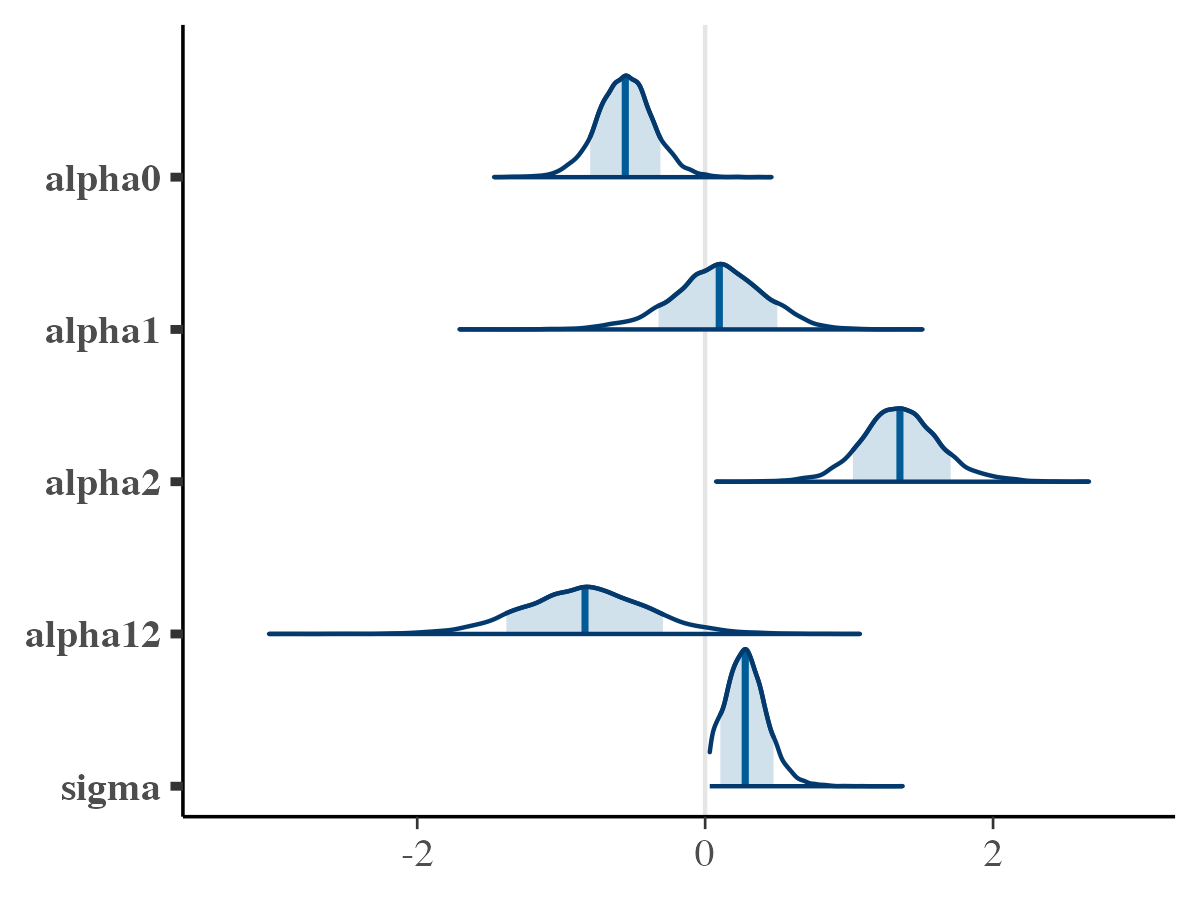
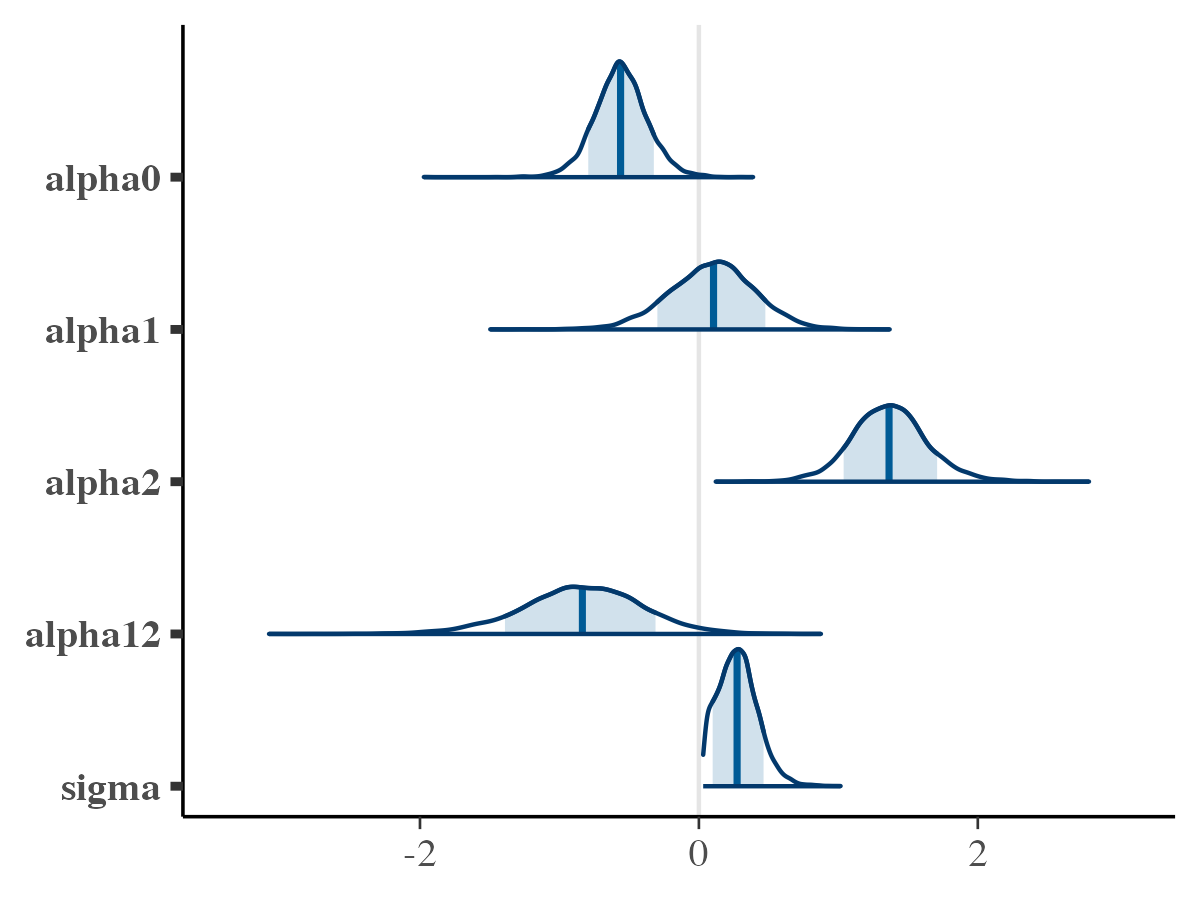
deploy: c6d447290df2568a062c6f5ffa799ca7ffac9ecc

diff --git a/articles/rjuliabugs.html b/articles/rjuliabugs.html
@@ -249,17 +249,17 @@ through <code>summary</code> function</p>
 <span><span class="co">#&gt; </span></span>
 <span><span class="co">#&gt; Summary Statistics:</span></span>
 <span><span class="co">#&gt; </span></span>
-<span><span class="co">#&gt;  parameters      mean      std     mcse ess_bulk ess_tail  rhat ess_per_sec</span></span>
-<span><span class="co">#&gt;         tau 47.229027 119.7687 9.449100    370.8    210.7 1.019          NA</span></span>
-<span><span class="co">#&gt;     alpha12 -0.837213   0.4349 0.007273   3557.3   4261.6 1.000          NA</span></span>
-<span><span class="co">#&gt;      alpha2  1.359454   0.2768 0.004914   3153.7   3699.5 1.001          NA</span></span>
-<span><span class="co">#&gt;      alpha1  0.088658   0.3247 0.005693   3318.4   3740.4 1.002          NA</span></span>
-<span><span class="co">#&gt;      alpha0 -0.555848   0.1978 0.003373   3418.4   3739.6 1.001          NA</span></span>
-<span><span class="co">#&gt;        b[1] -0.194257   0.2613 0.005795   2144.9   3247.8 1.002          NA</span></span>
-<span><span class="co">#&gt;        b[2]  0.009934   0.2214 0.002901   5905.9   4201.3 1.005          NA</span></span>
-<span><span class="co">#&gt;        b[3] -0.198701   0.2381 0.005425   1970.2   3578.5 1.002          NA</span></span>
-<span><span class="co">#&gt;        b[4]  0.277987   0.2653 0.006755   1512.1   3867.1 1.003          NA</span></span>
-<span><span class="co">#&gt;        b[5]  0.116276   0.2426 0.003741   4451.4   5115.0 1.002          NA</span></span>
+<span><span class="co">#&gt;  parameters     mean     std     mcse ess_bulk ess_tail  rhat ess_per_sec</span></span>
+<span><span class="co">#&gt;         tau 44.92242 96.1386 5.898412    345.1    376.3 1.013          NA</span></span>
+<span><span class="co">#&gt;     alpha12 -0.84155  0.4308 0.007708   3147.1   3831.4 1.002          NA</span></span>
+<span><span class="co">#&gt;      alpha2  1.36808  0.2726 0.005194   2841.1   3240.1 1.001          NA</span></span>
+<span><span class="co">#&gt;      alpha1  0.09385  0.3085 0.005533   3133.9   3844.9 1.002          NA</span></span>
+<span><span class="co">#&gt;      alpha0 -0.55950  0.1910 0.003391   3153.5   3776.0 1.000          NA</span></span>
+<span><span class="co">#&gt;        b[1] -0.18989  0.2541 0.005448   2296.8   3393.0 1.002          NA</span></span>
+<span><span class="co">#&gt;        b[2]  0.01052  0.2166 0.002866   5830.6   4152.6 1.003          NA</span></span>
+<span><span class="co">#&gt;        b[3] -0.19178  0.2287 0.005099   2166.1   3737.3 1.002          NA</span></span>
+<span><span class="co">#&gt;        b[4]  0.27197  0.2548 0.008060    997.7   3769.9 1.004          NA</span></span>
+<span><span class="co">#&gt;        b[5]  0.11927  0.2404 0.004408   3295.1   3186.6 1.002          NA</span></span>
 <span><span class="co">#&gt;          ...</span></span>
 <span><span class="co">#&gt;   17 rows omitted</span></span></code></pre></div>
 <p>If we wish to obtain the summary statistics for each saved parameter,
@@ -370,7 +370,7 @@ package:</p>
 <span></span>
 <span><span class="co"># Example: effective sample size</span></span>
 <span><span class="fu">posterior</span><span class="fu">::</span><span class="fu"><a href="https://mc-stan.org/posterior/reference/ess_basic.html" class="external-link">ess_basic</a></span><span class="op">(</span><span class="va">posterior</span><span class="op">$</span><span class="va">params</span><span class="op">[</span>,,<span class="st">"alpha0"</span><span class="op">]</span><span class="op">)</span></span>
-<span><span class="co">#&gt; [1] 3437.824</span></span></code></pre></div>
+<span><span class="co">#&gt; [1] 3172.288</span></span></code></pre></div>
 </div>
 <div class="section level2">
 <h2 id="saving-and-loading-the-rjuliabugs-model">Saving and loading the <code>rjuliabugs</code> model<a class="anchor" aria-label="anchor" href="#saving-and-loading-the-rjuliabugs-model"></a>

diff --git a/reference/juliaBUGS.html b/reference/juliaBUGS.html
@@ -53,6 +53,7 @@ for the HMC sampler uses Not-U-Turn Sampler (NUTS) with the target acceptance pr
 <span>  <span class="va">data</span>,</span>
 <span>  <span class="va">model_def</span>,</span>
 <span>  <span class="va">params_to_save</span>,</span>
+<span>  initializations <span class="op">=</span> <span class="cn">NULL</span>,</span>
 <span>  name <span class="op">=</span> <span class="st">"sampler_juliaBUGS"</span>,</span>
 <span>  n_iter <span class="op">=</span> <span class="fl">2000</span>,</span>
 <span>  n_warmup <span class="op">=</span> <span class="fu"><a href="https://rdrr.io/r/base/Round.html" class="external-link">floor</a></span><span class="op">(</span><span class="va">n_iter</span><span class="op">/</span><span class="fl">2</span><span class="op">)</span>,</span>
